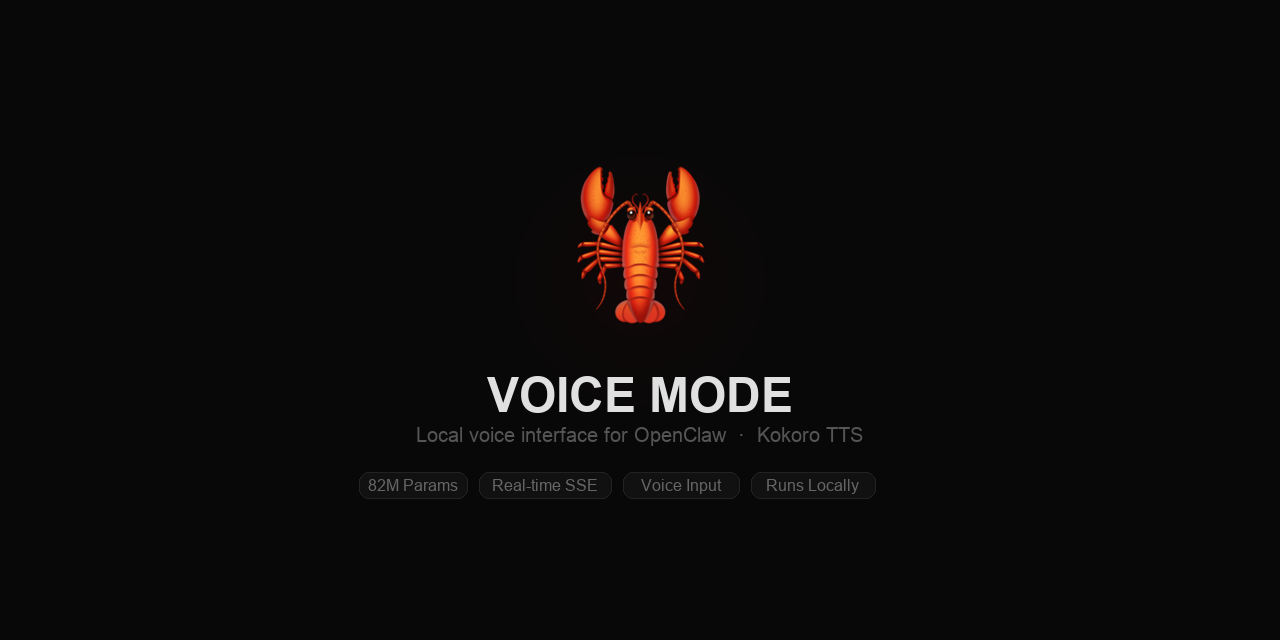
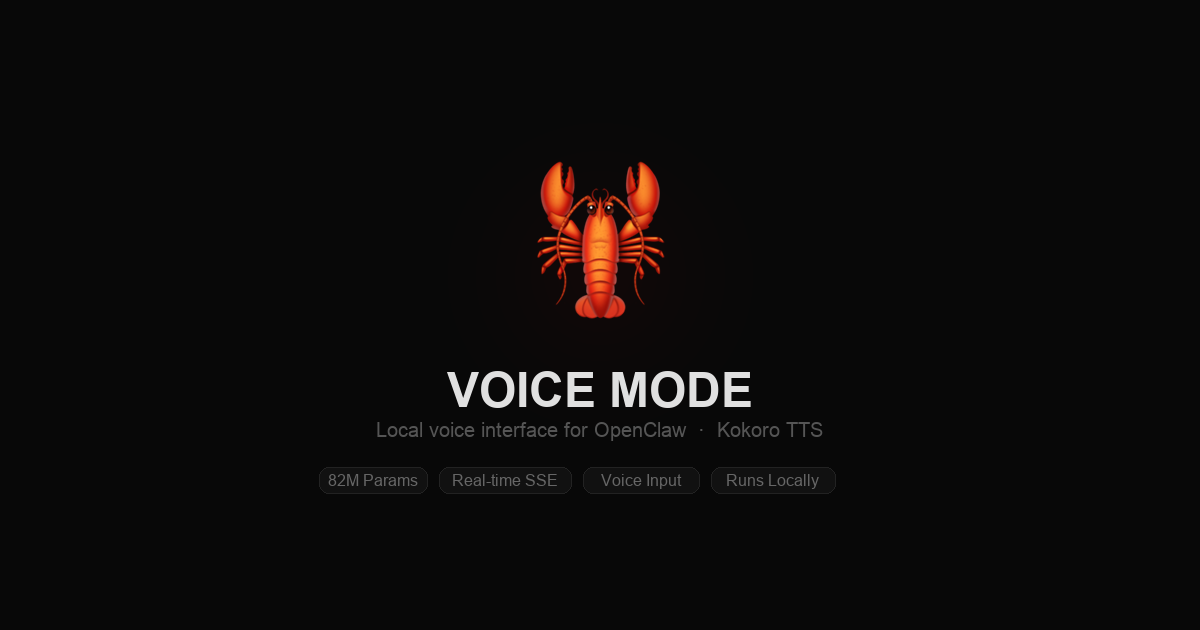
Fix social preview to 1200x630px for Twitter/X compatibility

diff --git a/generate_social.py b/generate_social.py
@@ -3,7 +3,7 @@
 
 from PIL import Image, ImageDraw, ImageFont, ImageFilter, ImageChops
 
-W, H = 1280, 640
+W, H = 1200, 630
 img = Image.new("RGB", (W, H), "#080808")
 draw = ImageDraw.Draw(img)
 
